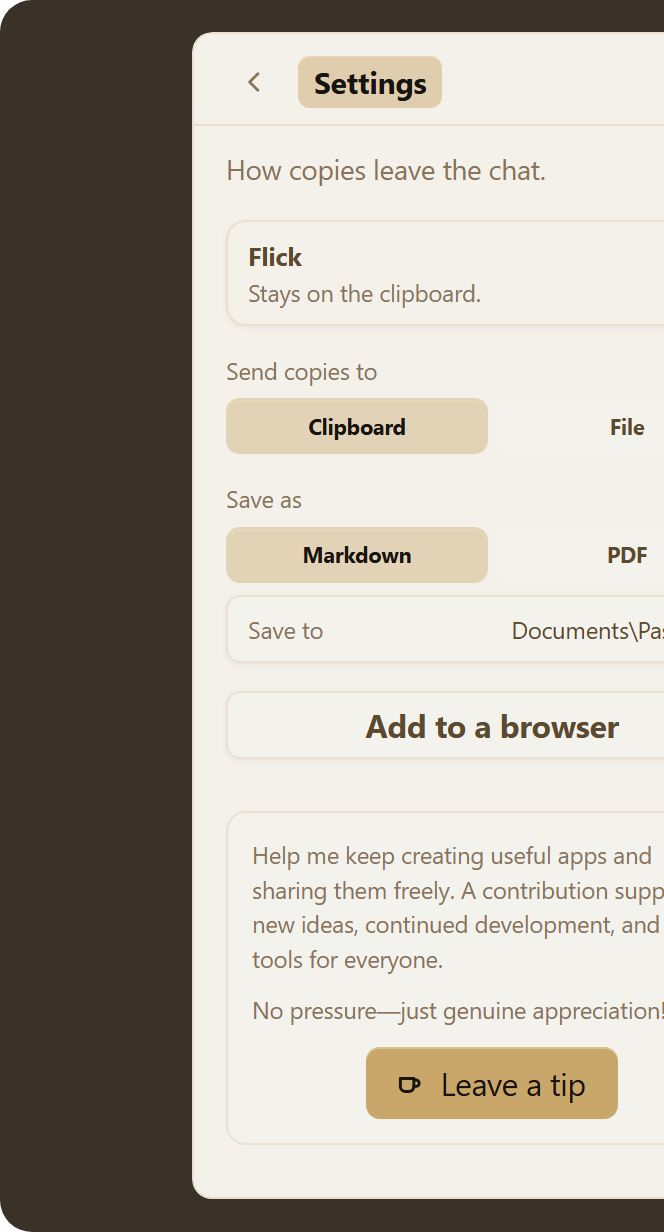
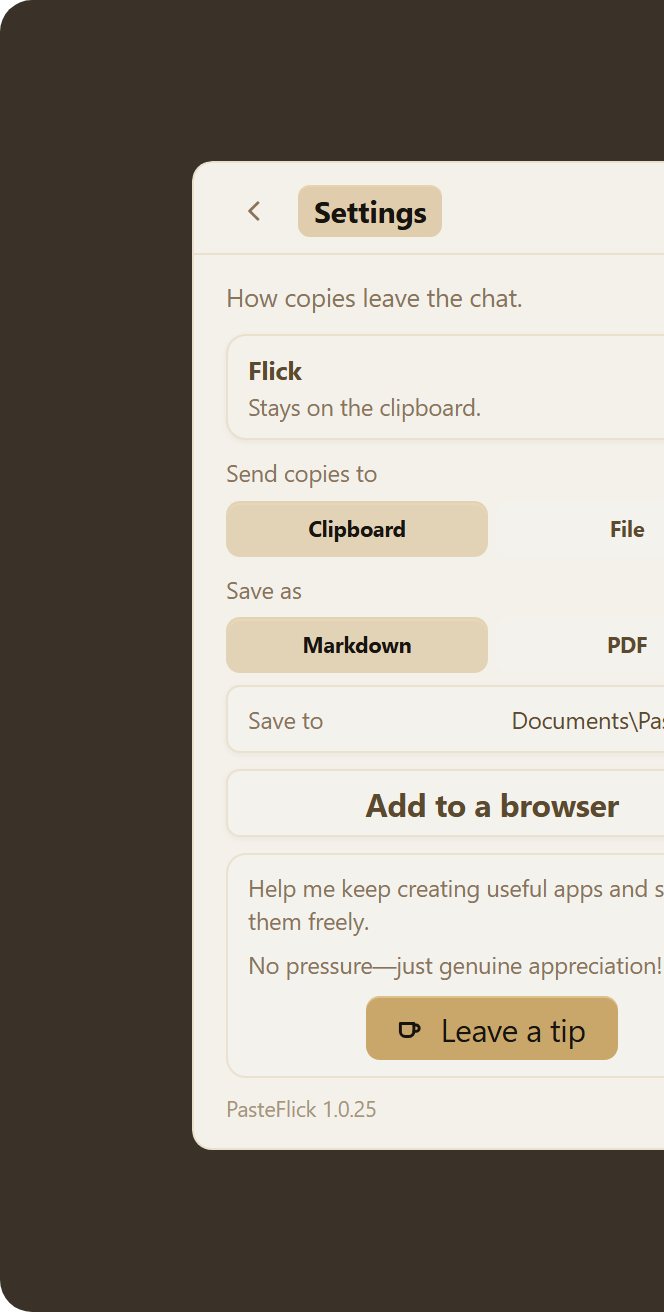
The settings popup was taller than the Chrome window, so people had to scroll to see the whole panel. This fits settings on one screen and refreshes the README photo so the live page matches what you see in the extension.

diff --git a/extension/popup.html b/extension/popup.html
@@ -61,12 +61,14 @@
       html {
         margin: 0;
         background: var(--bg0);
+        overflow: hidden;
       }
 
       body {
         margin: 0;
         width: 300px;
         padding: 8px;
+        overflow: hidden;
         background: var(--bg0);
         color: var(--text);
       }
@@ -187,8 +189,8 @@
       }
 
       #view-settings .lede {
-        font-size: 14px;
-        margin-bottom: 16px;
+        font-size: 13px;
+        margin-bottom: 10px;
       }
 
       .mode-row {
@@ -337,7 +339,11 @@
       .page-form {
         display: flex;
         flex-direction: column;
-        gap: 14px;
+        gap: 8px;
+      }
+
+      .page-form > .btn {
+        margin-bottom: 0;
       }
 
       .paste-pref {
@@ -534,11 +540,12 @@
         background: transparent;
         padding: 0;
         height: auto;
+        overflow: visible;
       }
 
       .support {
-        margin: 4px 0 0;
-        padding: 12px;
+        margin: 0;
+        padding: 8px 10px;
         border-radius: 10px;
         border: 1px solid var(--stroke);
         background: var(--well);
@@ -547,14 +554,14 @@
       }
 
       .support p {
-        margin: 0 0 8px;
+        margin: 0 0 6px;
         font-size: 12px;
-        line-height: 1.45;
+        line-height: 1.35;
         color: var(--muted);
       }
 
       .support p:last-of-type {
-        margin-bottom: 10px;
+        margin-bottom: 8px;
       }
 
       a.kofi {
@@ -563,7 +570,7 @@
         justify-content: center;
         align-self: center;
         gap: 8px;
-        height: 36px;
+        height: 32px;
         padding: 0 16px 0 14px;
         border-radius: 7px;
         background: var(--wood);
@@ -695,7 +702,7 @@
 
           <button type="button" id="add-browser" class="btn">Add to a browser</button>
           <div class="support">
-            <p>Help me keep creating useful apps and sharing them freely. A contribution supports new ideas, continued development, and more tools for everyone.</p>
+            <p>Help me keep creating useful apps and sharing them freely.</p>
             <p>No pressure—just genuine appreciation!</p>
             <a class="kofi" id="tip-kofi" href="https://ko-fi.com/ryandunham" title="Opens Ko-fi">
               <svg viewBox="0 0 16 16" width="15" height="15" aria-hidden="true">

diff --git a/readme/capture_shots.py b/readme/capture_shots.py
@@ -2,6 +2,7 @@
 
 from __future__ import annotations
 
+import json
 import os
 import re
 import socket
@@ -141,12 +142,12 @@ iframe{
   background:transparent;
 }
 .home{height:336px;}
-.settings{height:584px;}
+.settings{height:560px;}
 </style></head>
 <body>
   <div class="stage">
-    <iframe class="home" src="/popup.html?shot=1" title="Popup"></iframe>
-    <iframe class="settings" src="/popup-settings.html?shot=1" title="Settings"></iframe>
+    <iframe class="home" src="/popup.html?shot=1" title="Popup" scrolling="no"></iframe>
+    <iframe class="settings" src="/popup-settings.html?shot=1" title="Settings" scrolling="no"></iframe>
   </div>
   <script>
     function fit(frame) {
@@ -208,7 +209,7 @@ html,body{{margin:0;width:152px;height:96px;background:transparent;}}
             if name == "shot-popup.html":
                 inner, w, h, pad = "/popup.html?shot=1", 300, 336, 16
             else:
-                inner, w, h, pad = "/popup-settings.html?shot=1", 300, 584, 16
+                inner, w, h, pad = "/popup-settings.html?shot=1", 300, 560, 16
             html = f"""<!doctype html>
 <html><head><meta charset="utf-8"><style>
 html,body{{margin:0;height:100%;background:transparent;}}
@@ -226,7 +227,7 @@ html,body{{margin:0;height:100%;background:transparent;}}
 iframe{{border:0;width:{w}px;height:{h}px;border-radius:10px;overflow:hidden;background:transparent;}}
 </style></head>
 <body>
-  <div class="stage"><iframe src="{inner}"></iframe></div>
+  <div class="stage"><iframe src="{inner}" scrolling="no"></iframe></div>
   <script>
     function fit() {{
       const frame = document.querySelector("iframe");
@@ -456,6 +457,8 @@ html,body{{margin:0;width:840px;height:520px;background:transparent;}}
             html = html.replace("<html lang=\"en\">", "<html lang=\"en\" class=\"shot\">", 1)
             html = html.replace('id="view-home"', 'id="view-home" hidden', 1)
             html = html.replace('id="view-settings" hidden', 'id="view-settings"', 1)
+            ver = json.loads((EXT / "manifest.json").read_text(encoding="utf-8")).get("version", "")
+            html = html.replace('id="version"></p>', f'id="version">PasteFlick {ver}</p>', 1)
             data = html.encode("utf-8")
             self.send_response(200)
             self.send_header("Content-Type", "text/html; charset=utf-8")
@@ -538,9 +541,9 @@ def main() -> None:
     try:
         # New filenames so GitHub doesn't serve stale shots.
         shot(f"{base}/shot-chip.html?v=22", OUT / "the-chip.png", 152, 96, "00000000")
-        shot(f"{base}/shot-pair.html?v=13", OUT / "the-panels.png", 688, 616, "00000000")
-        shot(f"{base}/shot-popup.html?v=13", OUT / "panel-main.png", 332, 368, "00000000")
-        shot(f"{base}/shot-settings.html?v=13", OUT / "panel-settings.png", 332, 616, "00000000")
+        shot(f"{base}/shot-pair.html?v=15", OUT / "home-and-settings.png", 688, 656, "00000000")
+        shot(f"{base}/shot-popup.html?v=15", OUT / "panel-main.png", 332, 368, "00000000")
+        shot(f"{base}/shot-settings.html?v=15", OUT / "panel-settings.png", 332, 656, "00000000")
         shot(f"{base}/shot-chat.html?v=27", OUT / "one-or-more.png", 840, 520, "00000000")
     finally:
         httpd.shutdown()

diff --git a/README.md b/README.md
@@ -23,7 +23,7 @@
 <p align="center"><br></p>
 
 <p align="center">
-  <img src="readme/shots/the-panels.png" width="760" alt="PasteFlick popup and settings">
+  <img src="readme/shots/home-and-settings.png" width="760" alt="PasteFlick popup and settings">
 </p>
 
 <p align="center"><br></p>
